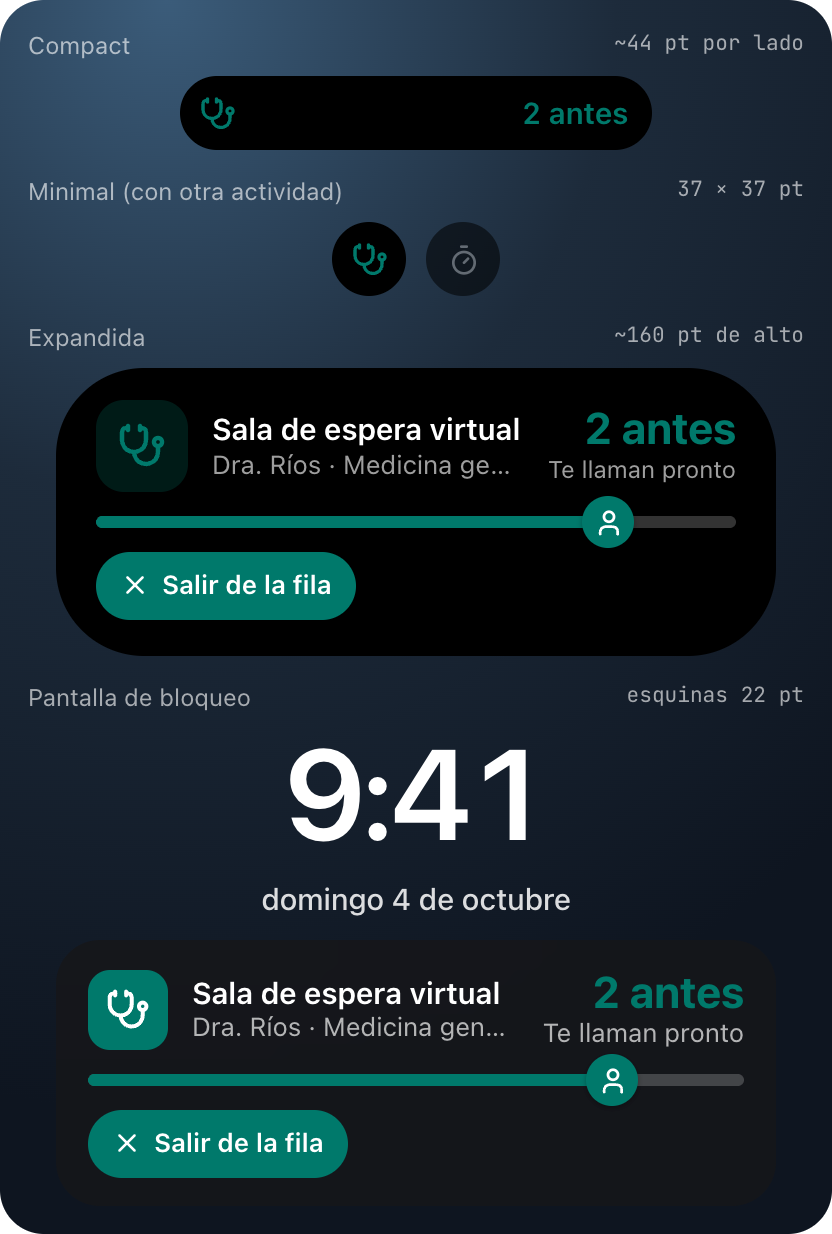
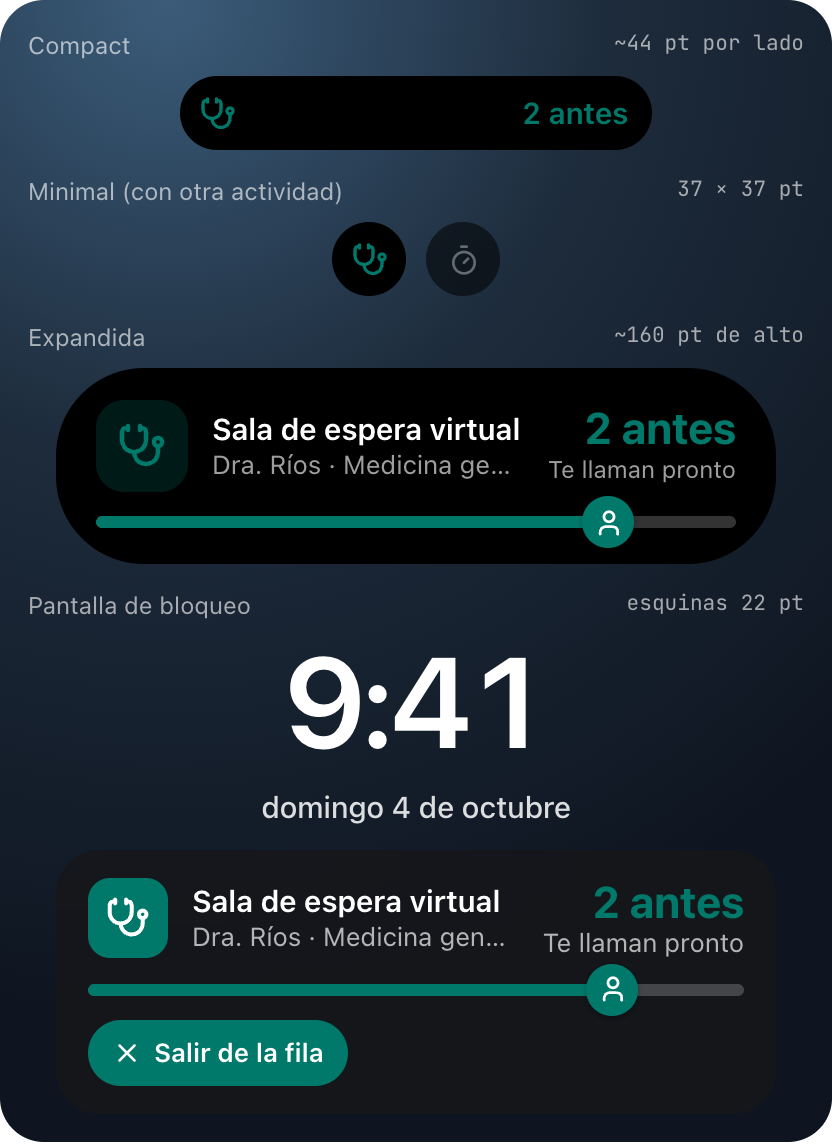
Quita los botones de la isla expandida en el HTML de prototipos

diff --git a/docs/design/live_island_prototipos.html b/docs/design/live_island_prototipos.html
@@ -560,7 +560,7 @@ function expandedHTML(s,dl){
   return '<div class="island expanded" role="img" aria-label="Dynamic Island expandida">'+
     '<div class="ex-top">'+iconBox+'<div style="min-width:0"><div class="ex-title">'+esc(s.title)+'</div><div class="ex-sub">'+esc(s.subtitle)+'</div></div>'+
     '<div class="ex-trail">'+(ringSide||'<div class="big" style="color:'+s.accent+'">'+esc(hl(s,dl))+'</div><div class="small">'+esc(s.name)+'</div>')+'</div></div>'+
-    (s.pType!=='ring'?progress(s,'dark'):'<div class="small" style="text-align:center">'+esc(hl(s,dl))+' · '+esc(s.name)+'</div>')+iosActions(s,'dark')+'</div>';
+    (s.pType!=='ring'?progress(s,'dark'):'<div class="small" style="text-align:center">'+esc(hl(s,dl))+' · '+esc(s.name)+'</div>')+'</div>'; /* sin botones: tocar la isla abre la app */
 }
 function lockCardHTML(s,dl){
   const surf=s.lockBg;
